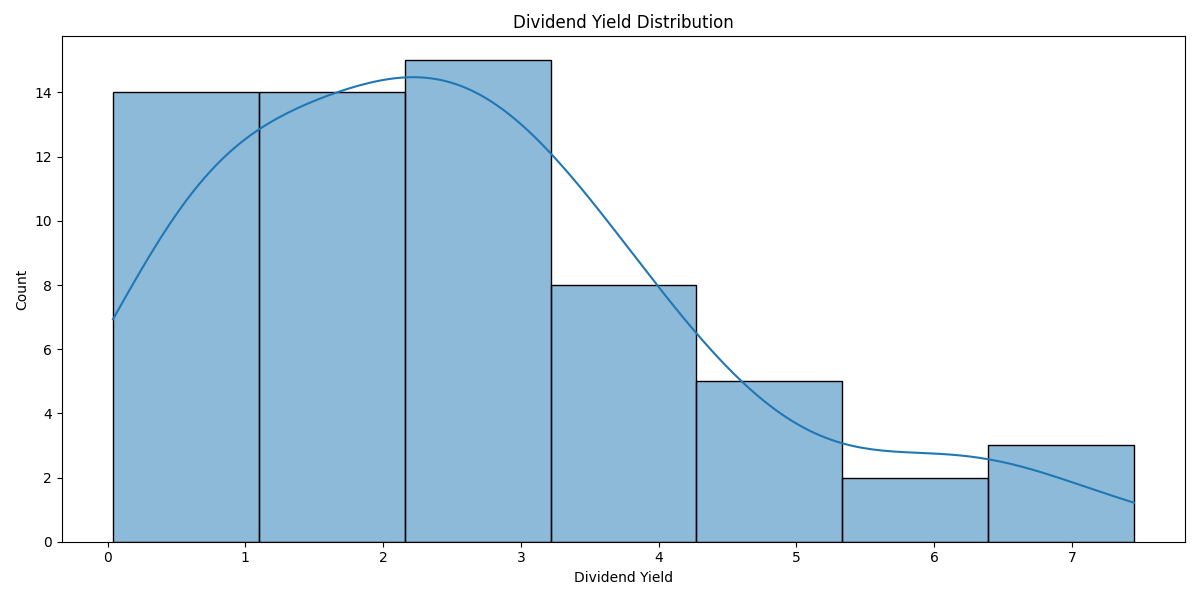
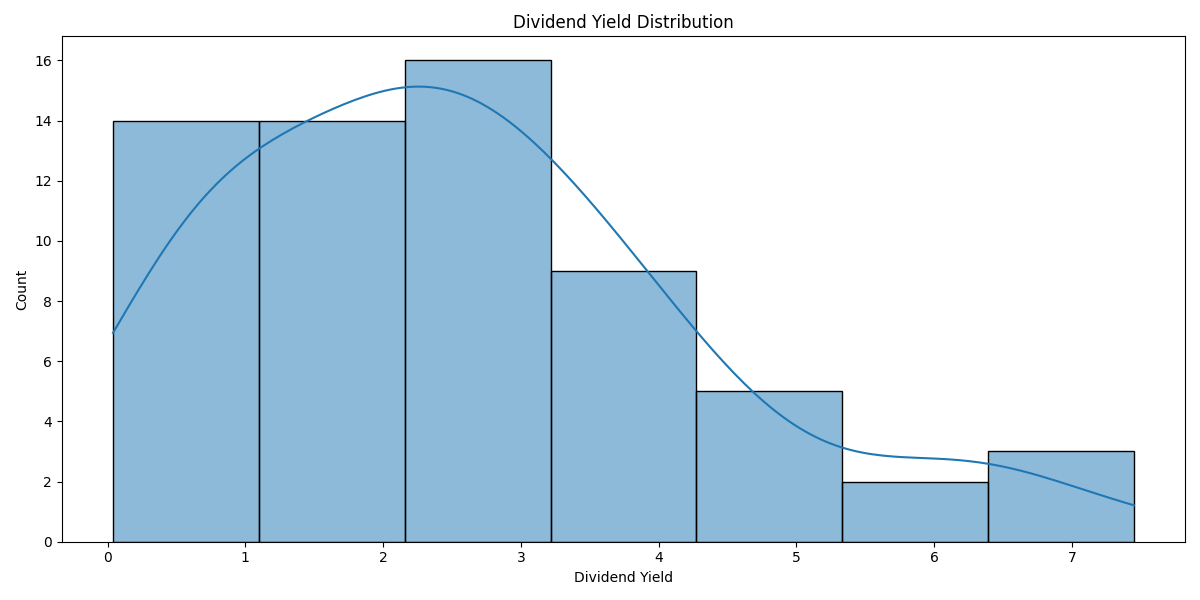
Updated readme and advanced financial analysis to produce more insightful charts and statistica; analysis.

diff --git a/server/advanced_financial_analysis.py b/server/advanced_financial_analysis.py
@@ -46,38 +46,84 @@ class AdvancedFinancialAnalyzer:
             logger.error(f"Error loading metrics: {e}")
             return {}
     def convert_to_dataframe(self):
-        """
-        Convert metrics to a pandas DataFrame for analysis
-        """
         try:
             # Prepare data for DataFrame
             data = []
             for ticker, metrics in self.metrics_data.items():
-                # Clean and convert metrics
+                # Clean and convert metrics with more flexible handling
                 cleaned_metrics = {
                     'Ticker': ticker,
                     'Market Cap': self._clean_market_cap(metrics.get('Market Cap', 'N/A')),
-                    'P/E Ratio': self._clean_float(metrics.get('PE Ratio (TTM)', 'N/A')),
-                    'EPS': self._clean_float(metrics.get('EPS (TTM)', 'N/A')),
-                    'Dividend Yield': self._clean_percentage(metrics.get('Forward Dividend & Yield', 'N/A').split('(')[-1].rstrip(')') if '(' in metrics.get('Forward Dividend & Yield', 'N/A') else 'N/A'),
-                    'Current Price': self._clean_float(metrics.get('Previous Close', 'N/A'))
+                    'P/E Ratio': self._clean_float(metrics.get('PE Ratio (TTM)', 'N/A'), allow_negative=True),
+                    'EPS': self._clean_float(metrics.get('EPS (TTM)', 'N/A'), allow_negative=True),
+                    'Dividend Yield': self._clean_percentage(
+                        metrics.get('Forward Dividend & Yield', 'N/A').split('(')[-1].rstrip(')') 
+                        if '(' in metrics.get('Forward Dividend & Yield', 'N/A') 
+                        else 'N/A'
+                    ),
+                    'Current Price': self._clean_float(metrics.get('Previous Close', 'N/A')),
+                    'Beta': self._clean_float(metrics.get('Beta', 'N/A')),
+                    'Volume': self._clean_float(metrics.get('Volume', 'N/A').replace(',', '')),
+                    'Avg Volume': self._clean_float(metrics.get('Avg. Volume', 'N/A').replace(',', '')),
+                    '52 Week Low': self._extract_52_week_range(metrics.get('52 Week Range', 'N/A'), 'low'),
+                    '52 Week High': self._extract_52_week_range(metrics.get('52 Week Range', 'N/A'), 'high'),
+                    'Target Price': self._clean_float(metrics.get('1y Target Est', 'N/A'))
                 }
                 data.append(cleaned_metrics)
             
             df = pd.DataFrame(data)
             
-            # Convert columns to numeric, coercing errors to NaN
+            df['Price to Target Ratio'] = df['Target Price'] / df['Current Price']
+            df['Volume Trend'] = df['Volume'] / df['Avg Volume']
+
+            # Convert columns to numeric, with more lenient approach
             numeric_columns = ['Market Cap', 'P/E Ratio', 'EPS', 'Dividend Yield', 'Current Price']
             for col in numeric_columns:
                 df[col] = pd.to_numeric(df[col], errors='coerce')
             
-            # Remove rows with NaN values
-            df = df.dropna(subset=numeric_columns)
+            # Only drop rows if ALL numeric columns are NaN
+            df = df.dropna(subset=numeric_columns, how='all')
             
             return df
         except Exception as e:
             logger.error(f"Error converting to DataFrame: {e}")
             return pd.DataFrame()
+        
+    def _extract_52_week_range(self, range_str, mode='low'):
+        """
+        Extract 52-week low or high from range string
+        """
+        try:
+            if '-' not in range_str:
+                return pd.NA
+            
+            low, high = range_str.split('-')
+            return float(low.strip()) if mode == 'low' else float(high.strip())
+        except:
+            return pd.NA
+
+    def _clean_float(self, value, allow_negative=False):
+        """
+        Clean and convert to float with more flexible handling
+        """
+        try:
+            # Handle special cases
+            if value in ['N/A', '--', '']:
+                return pd.NA
+            
+            # Remove any non-numeric characters except decimal point, minus sign
+            cleaned = ''.join(char for char in str(value) if char in '0123456789.-')
+            
+            # Convert to float
+            float_value = float(cleaned)
+            
+            # Check for negative values if not allowed
+            if not allow_negative and float_value < 0:
+                return pd.NA
+            
+            return float_value
+        except (ValueError, TypeError):
+            return pd.NA
 
     def _clean_market_cap(self, value):
         """
@@ -93,21 +139,6 @@ class AdvancedFinancialAnalyzer:
             elif 'M' in value:
                 return float(value.replace('M', '')) * 1_000_000
         return pd.NA
-
-    def _clean_float(self, value):
-        """
-        Clean and convert to float
-        """
-        try:
-            # Handle special cases like '--'
-            if value in ['N/A', '--']:
-                return pd.NA
-            
-            # Remove any non-numeric characters except decimal point and minus sign
-            cleaned = ''.join(char for char in str(value) if char in '0123456789.-')
-            return float(cleaned) if cleaned else pd.NA
-        except (ValueError, TypeError):
-            return pd.NA
 
     def _clean_percentage(self, value):
         """
@@ -158,45 +189,89 @@ class AdvancedFinancialAnalyzer:
             plt.savefig('financial_analysis_charts/dividend_yield_distribution.png')
             plt.close()
 
+            # Correlation Heatmap
+            plt.figure(figsize=(12, 10))
+            correlation_matrix = self.df[['Market Cap', 'P/E Ratio', 'EPS', 'Dividend Yield', 'Beta', 'Volume']].corr()
+            sns.heatmap(correlation_matrix, annot=True, cmap='coolwarm', center=0)
+            plt.title('Financial Metrics Correlation Heatmap')
+            plt.tight_layout()
+            plt.savefig('financial_analysis_charts/correlation_heatmap.png')
+            plt.close()
+
+            # Bubble Chart: Market Cap vs EPS vs Dividend Yield
+            plt.figure(figsize=(15, 8))
+            scatter = plt.scatter(
+                self.df['Market Cap'], 
+                self.df['EPS'], 
+                s=self.df['Dividend Yield']*100, 
+                alpha=0.5
+            )
+            plt.xlabel('Market Cap')
+            plt.ylabel('EPS')
+            plt.title('Market Cap vs EPS (Bubble Size: Dividend Yield)')
+            plt.xscale('log')
+            plt.tight_layout()
+            plt.savefig('financial_analysis_charts/market_cap_eps_bubble.png')
+            plt.close()
+
             logger.info("Visualizations generated successfully")
         except Exception as e:
             logger.error(f"Error generating visualizations: {e}")
 
     def generate_advanced_analysis(self):
         """
-        Generate comprehensive financial analysis
+        Generate comprehensive financial analysis with enhanced insights
         """
         try:
-            # Prepare detailed analysis data
+            # Prepare more comprehensive analysis data
             analysis_data = {
-                "Market Cap Summary": self.df['Market Cap'].describe().to_dict(),
-                "P/E Ratio Summary": self.df['P/E Ratio'].describe().to_dict(),
-                "EPS Summary": self.df['EPS'].describe().to_dict(),
-                "Dividend Yield Summary": self.df['Dividend Yield'].describe().to_dict(),
-                
-                "Top 5 by Market Cap": self.df.nlargest(5, 'Market Cap')[['Ticker', 'Market Cap']].to_dict(orient='records'),
-                "Top 5 by EPS": self.df.nlargest(5, 'EPS')[['Ticker', 'EPS']].to_dict(orient='records'),
-                "Highest Dividend Yields": self.df.nlargest(5, 'Dividend Yield')[['Ticker', 'Dividend Yield']].to_dict(orient='records')
+                "Dataset Overview": {
+                    "Total Stocks": len(self.df),
+                    "Metrics": list(self.df.columns)
+                },
+                "Statistical Summaries": {
+                    metric: self.df[metric].describe().to_dict() 
+                    for metric in ['Market Cap', 'P/E Ratio', 'EPS', 'Dividend Yield', 'Beta']
+                },
+                "Performance Metrics": {
+                    "Top Performers": {
+                        "Highest Market Cap": self.df.nlargest(5, 'Market Cap')[['Ticker', 'Market Cap']].to_dict(orient='records'),
+                        "Highest EPS": self.df.nlargest(5, 'EPS')[['Ticker', 'EPS']].to_dict(orient='records'),
+                        "Highest Dividend Yields": self.df.nlargest(5, 'Dividend Yield')[['Ticker', 'Dividend Yield']].to_dict(orient='records')
+                    },
+                    "Risk Metrics": {
+                        "Highest Beta Stocks": self.df.nlargest(5, 'Beta')[['Ticker', 'Beta']].to_dict(orient='records'),
+                        "Lowest Beta Stocks": self.df.nsmallest(5, 'Beta')[['Ticker', 'Beta']].to_dict(orient='records')
+                    }
+                },
+                "Derived Insights": {
+                    "Price to Target Analysis": self.df.nlargest(5, 'Price to Target Ratio')[['Ticker', 'Price to Target Ratio']].to_dict(orient='records'),
+                    "Volume Trend Outliers": self.df.nlargest(5, 'Volume Trend')[['Ticker', 'Volume Trend']].to_dict(orient='records')
+                }
             }
 
-            # Prepare prompt for AI analysis
             prompt = f"""
-            Perform an advanced financial analysis based on the following comprehensive dataset:
+            Perform a multi-dimensional financial analysis with the following comprehensive dataset:
 
-            DATASET OVERVIEW:
+            DETAILED DATASET OVERVIEW:
             {json.dumps(analysis_data, indent=2)}
 
-            ANALYSIS DIRECTIVES:
-            1. Provide a deep-dive statistical analysis
-            2. Identify key financial trends and patterns
-            3. Compare performance across different financial metrics
-            4. Offer nuanced insights beyond surface-level observations
-            5. Suggest potential investment strategies based on the data
+            ADVANCED ANALYSIS DIRECTIVES:
+            1. Provide a holistic market ecosystem analysis
+            2. Identify cross-metric correlations and anomalies
+            3. Develop nuanced investment strategy recommendations
+            4. Assess potential market trends and sector dynamics
+            5. Highlight stocks with unique or contrarian characteristics
 
-            ADDITIONAL CONTEXT:
-            - Visualizations have been generated in the 'financial_analysis_charts' directory
-            - Analysis should be comprehensive and data-driven
-            - Consider both individual stock performance and comparative insights
+            ANALYTICAL FRAMEWORK:
+            - Examine relationships between market cap, profitability, and risk
+            - Identify potential undervalued or overvalued stocks
+            - Consider macroeconomic implications of the data
+            - Provide forward-looking strategic insights
+
+            VISUALIZATION CONTEXT:
+            - Correlation heatmap and bubble charts have been generated
+            - Consider visual insights in your comprehensive analysis
             """
 
             # API request configuration
@@ -238,6 +313,7 @@ class AdvancedFinancialAnalyzer:
 
         except Exception as e:
             logger.error(f"Error in advanced financial analysis: {e}")
+            logger.error(traceback.format_exc())
             return f"Error: {e}"
 
 def main():

diff --git a/README.md b/README.md
@@ -73,6 +73,14 @@ StockMarketAI is a tool designed to analyze financial metrics of stocks, scrape 
 
     This will generate the `performance_rankings_financial_insights.txt` file with the market analysis and performance rankings.
 
+3. Execute statistical analysis and produce charts:
+
+    ```bash
+    python advanced_financial_analysis.py
+    ```
+
+    This will generate the `advanced_financial_insights.txt` file with more granular statsitcal analysis across stocks.
+
 ## Features
 
 ### Data Scraping
@@ -83,12 +91,13 @@ StockMarketAI is a tool designed to analyze financial metrics of stocks, scrape 
 ### AI-Powered Insights
 
 - Uses OpenAI GPT to analyze the scraped financial data.
-- Generates performance rankings and provides recommendations for investors based on the data.
+- Generates performance rankings, generates insights, and provides recommendations for investors based on the data.
 
-### Market Performance Rankings
+### Market Analysis
 
 - Ranks stocks based on key financial metrics such as P/E ratio, market cap, and EPS.
 - Offers recommendations for different types of investors (e.g., those seeking stability or dividend income).
+- Conducts deep statistical analysis across key performance metrics to derive insights
 
 ### Customization
 
